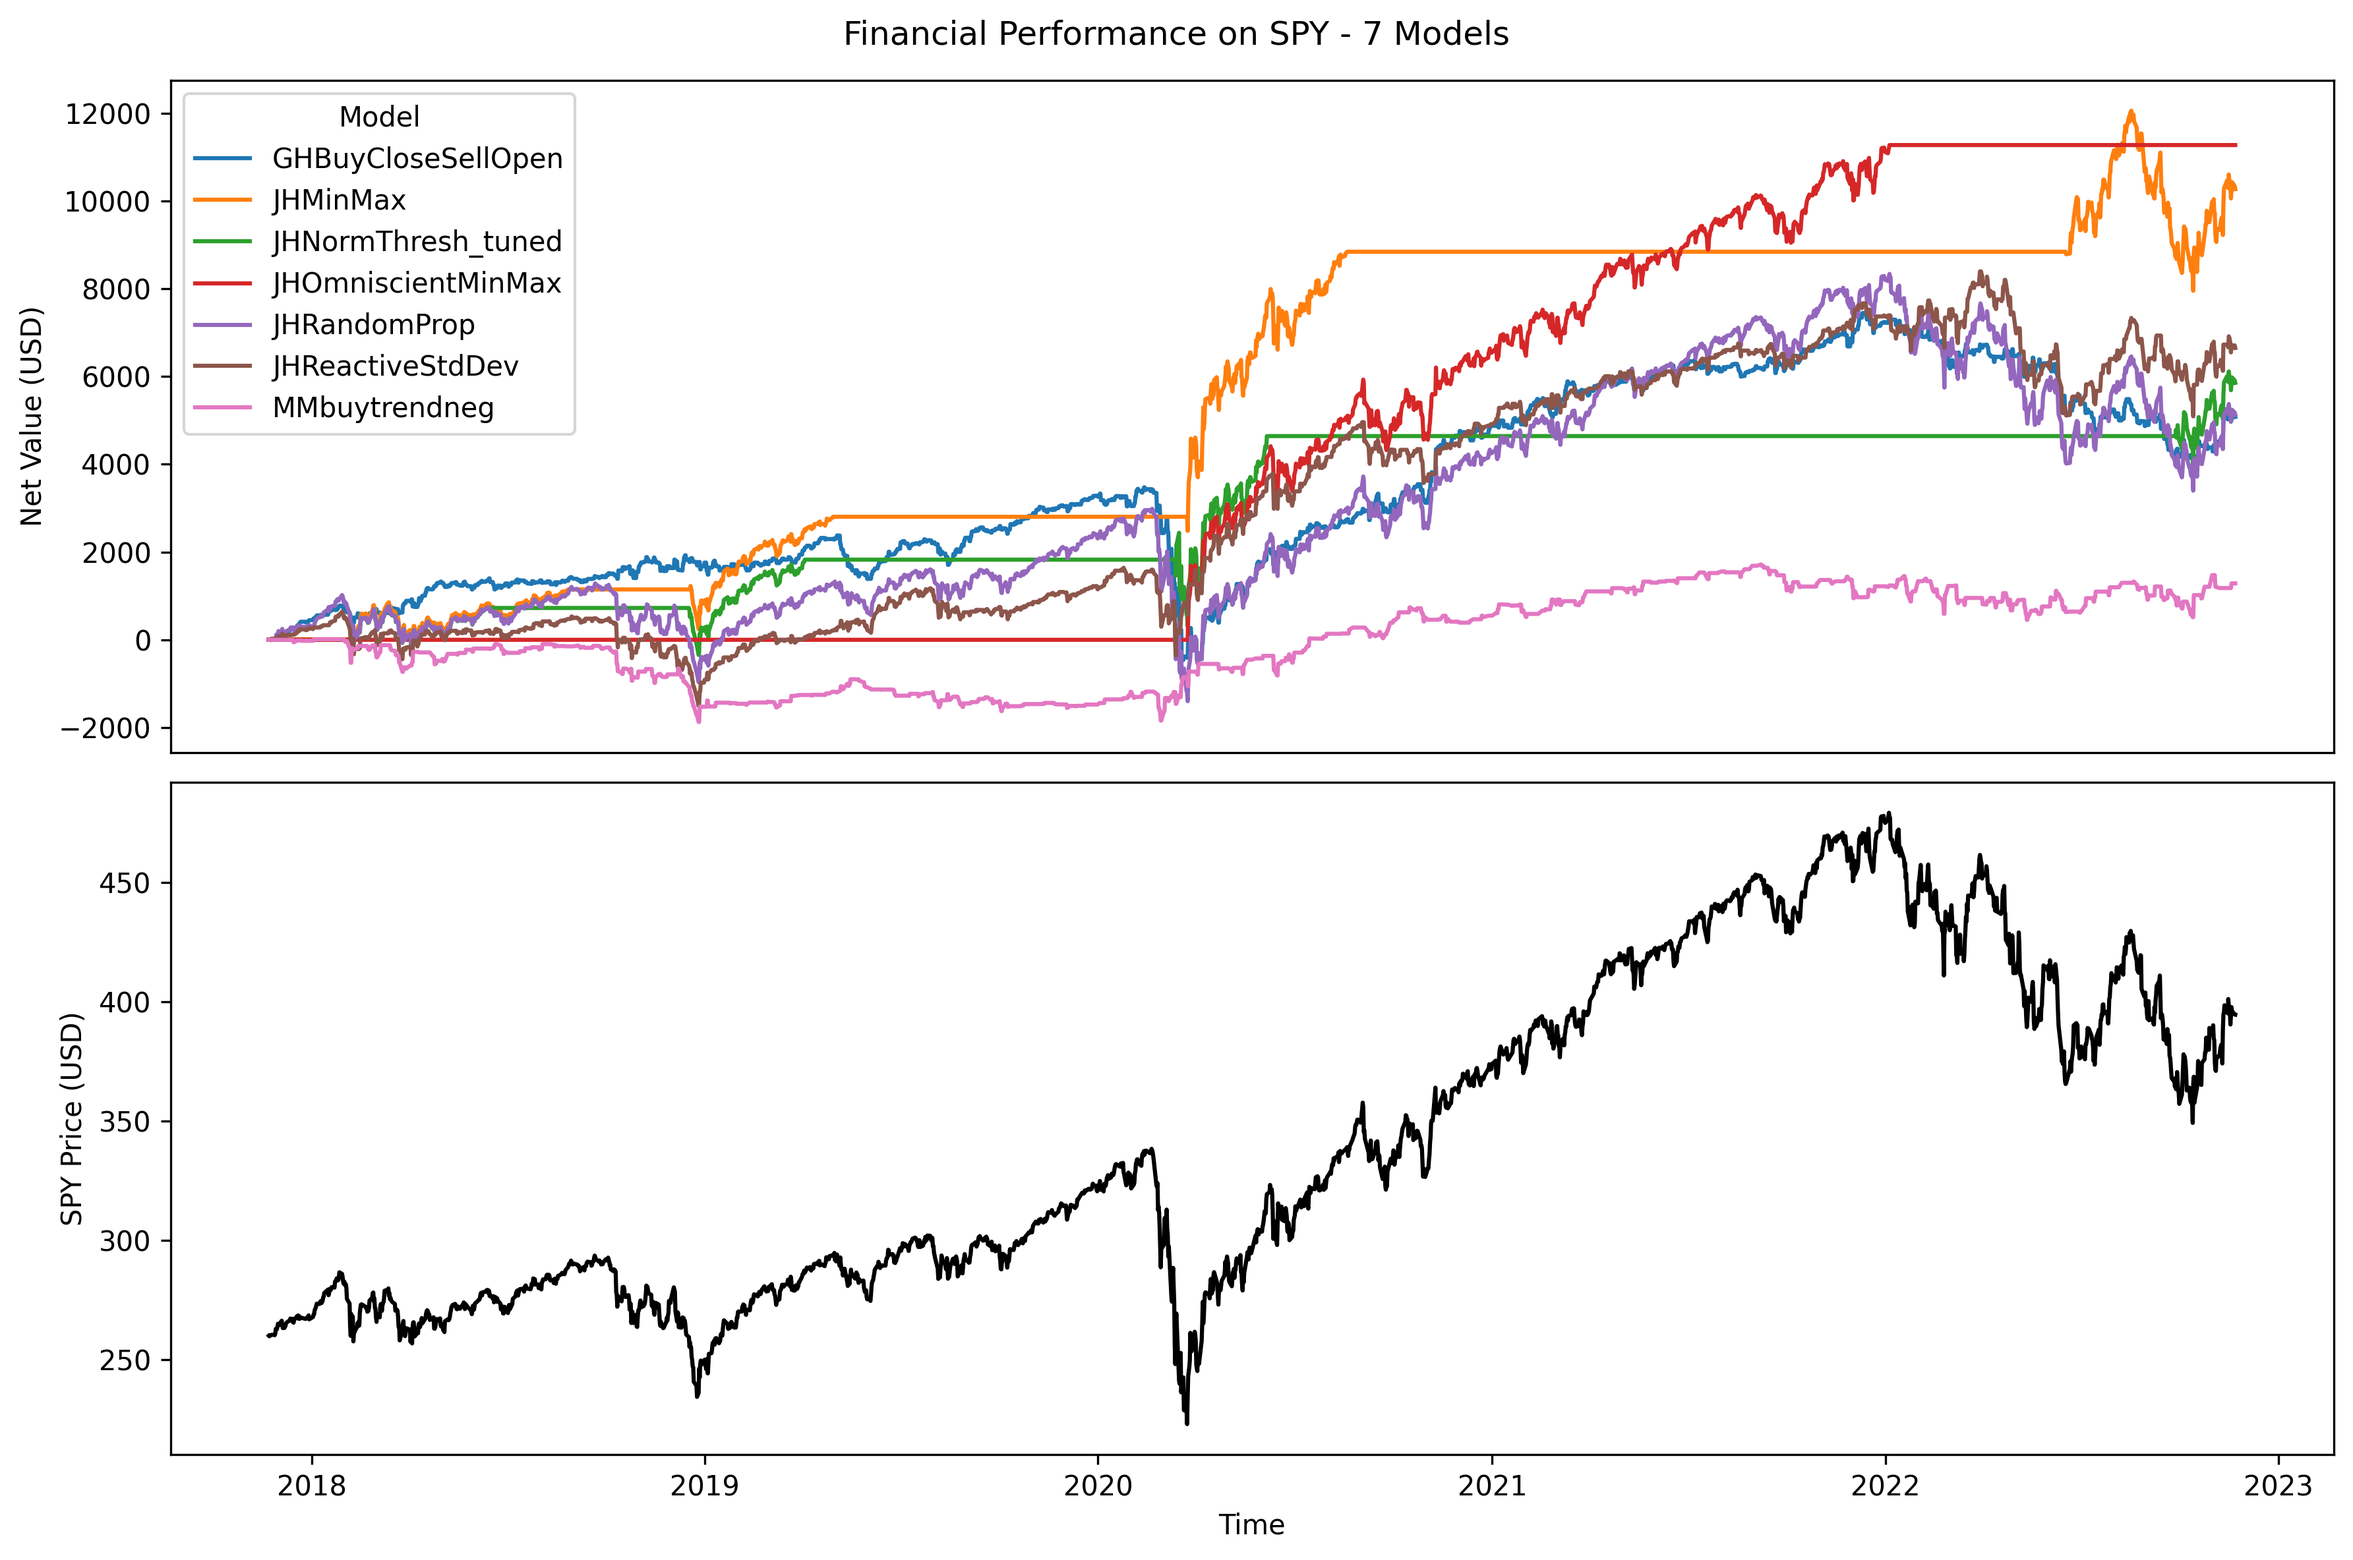
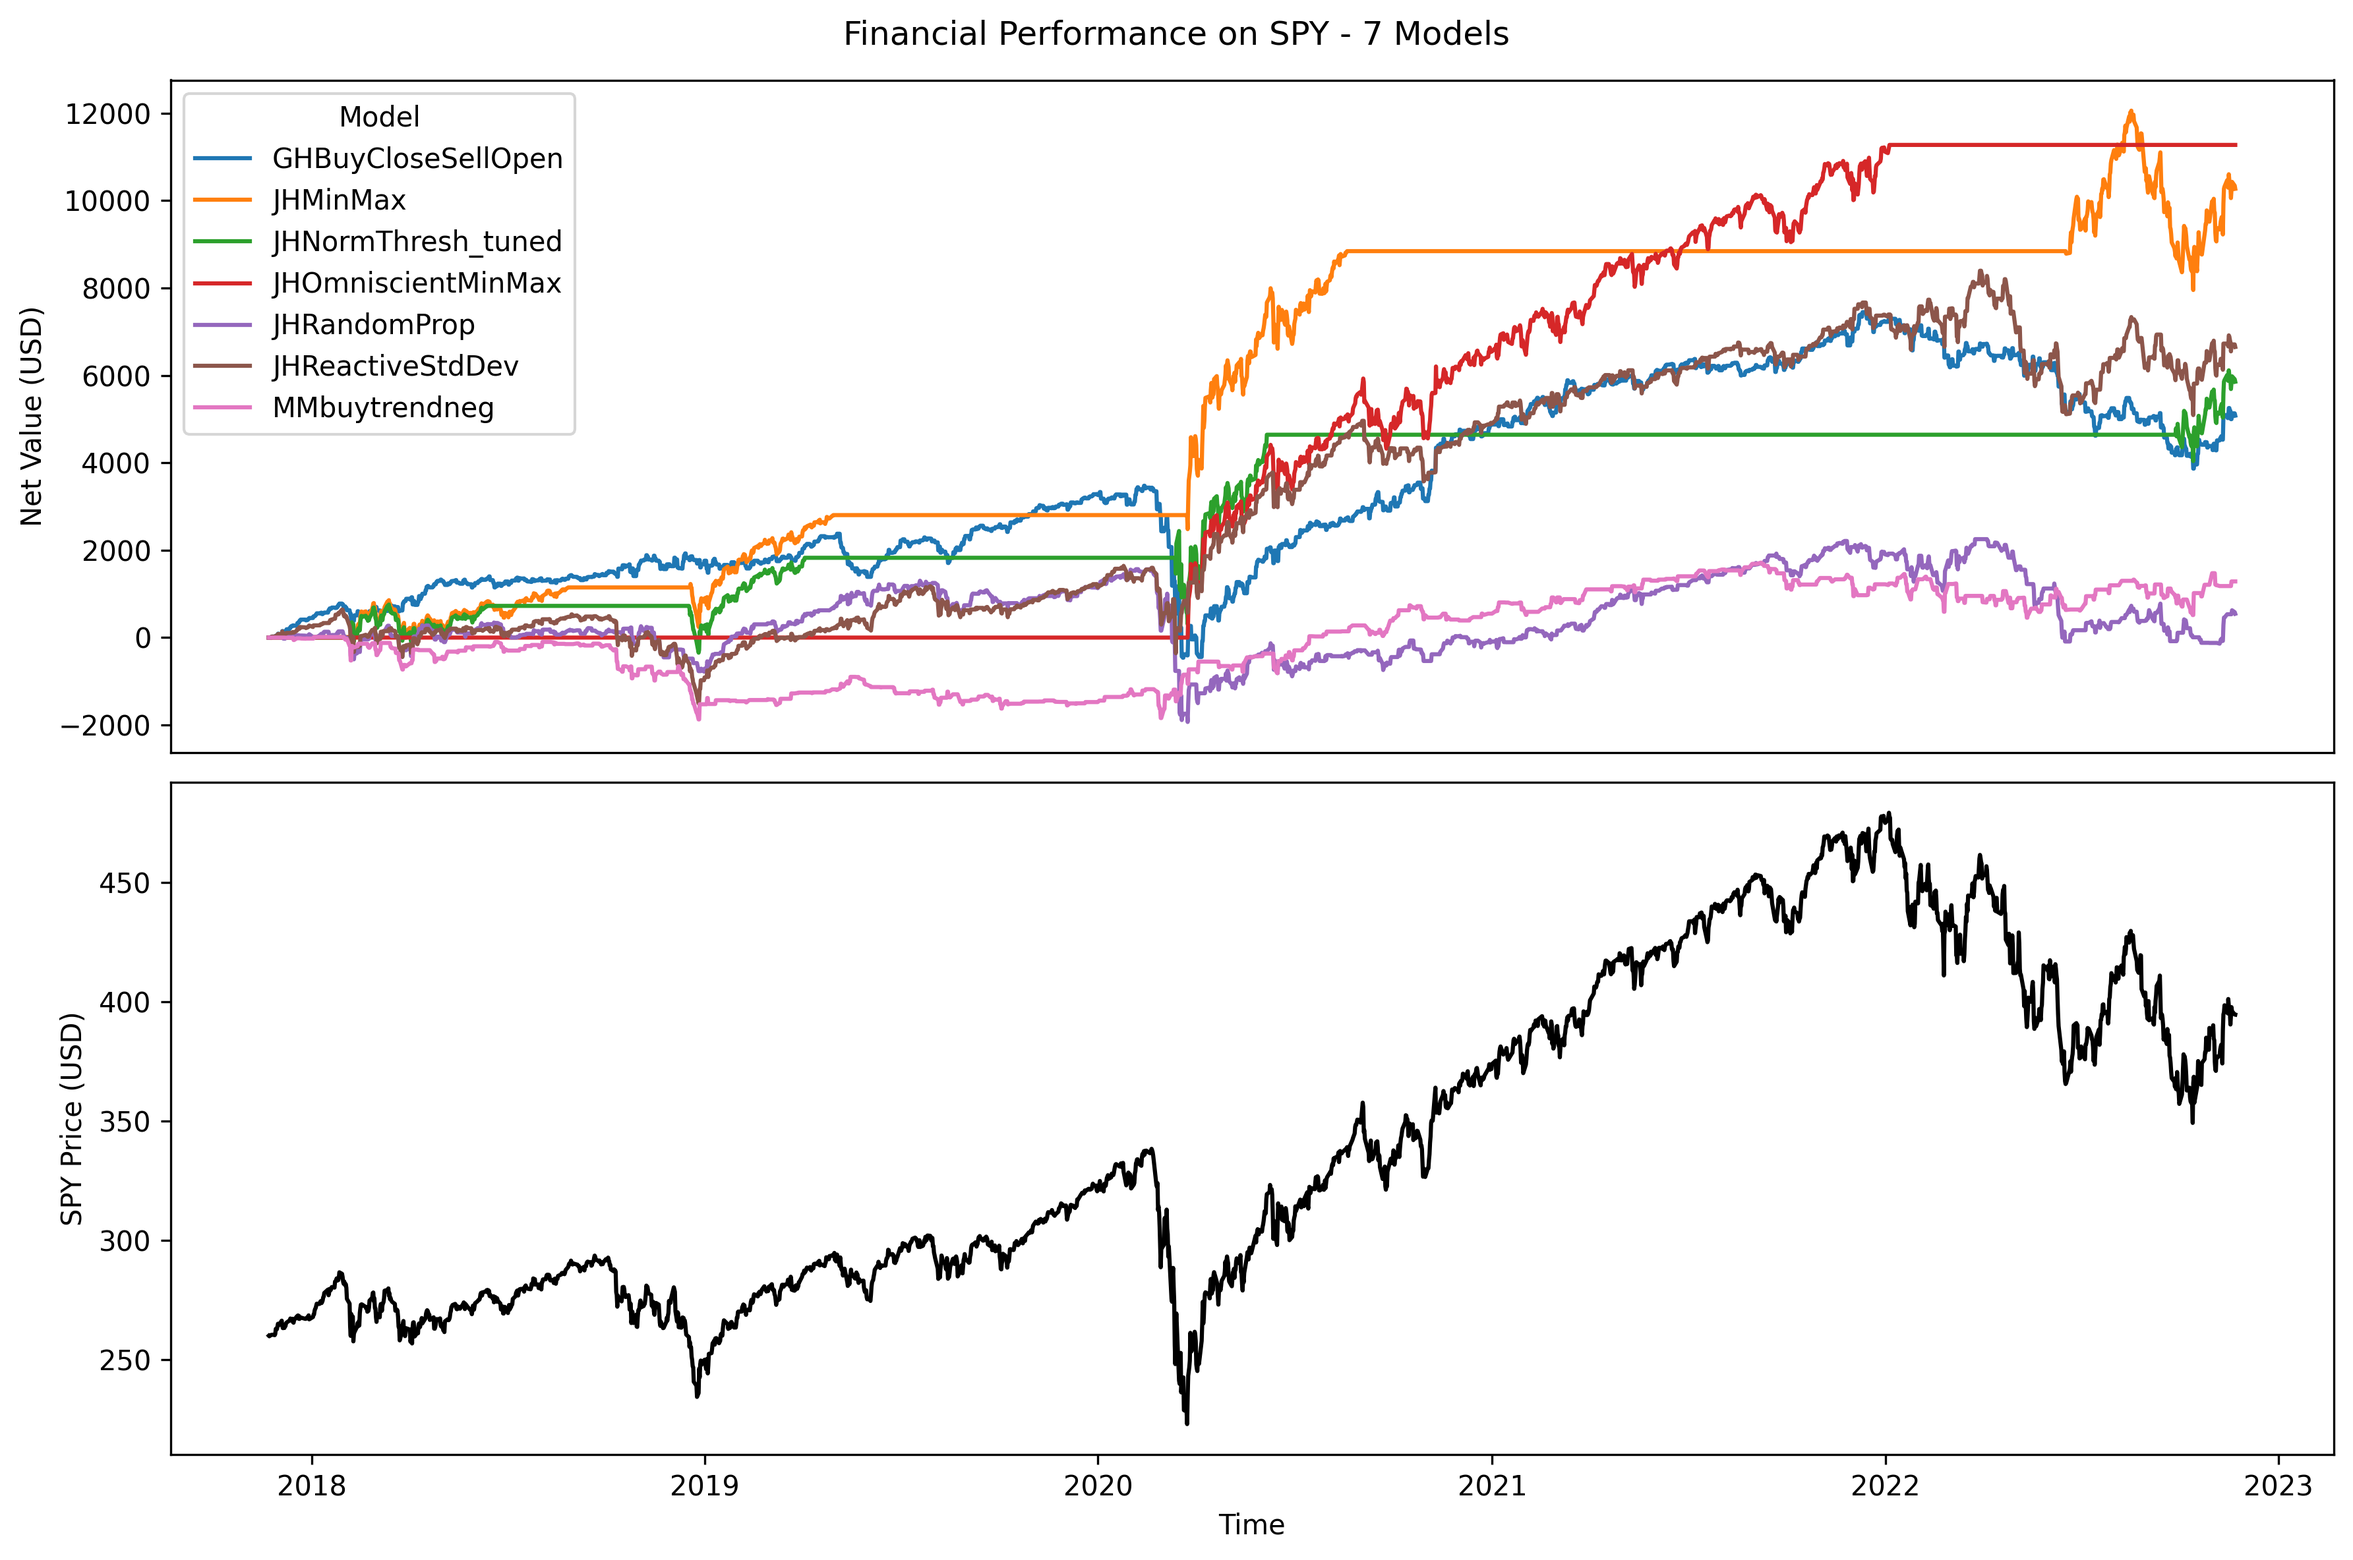
fixed one of the random models (never would buy); updated some markdown files

diff --git a/src/jh_plot_varmodels.py b/src/jh_plot_varmodels.py
@@ -160,11 +160,10 @@ def plot(
     if hasattr(model, 'conserve'):
         model_params.append(f'conserve={model.conserve}')
     
-    model_name = type(model).__name__
     net_perf = model.get_net_value()
     net_perf = f'{"-" if net_perf < 0 else ""}${abs(net_perf):.2f}'
     title = [
-        f'{model_name} price vs {alt} on {trend.name}',
+        f'{desc} price vs {alt} on {trend.name}',
         f'params: {"; ".join(model_params)}',
     ]
     if alt in incl_detail or alt == 'net value':
@@ -187,38 +186,38 @@ def plot(
     plt.tight_layout()
     if save_fig:
         plt.savefig(
-            f'figs/{trend.name}_std_dev-{desc}-price_vs_{alt}.png',
+            f'figs/{trend.name}_var_{desc}-price_vs_{alt}.png',
             dpi=300,
             bbox_inches='tight'
         )
     plt.show()
 
-def run_model(trend, desc, model, save_fig=False):
+def run_model(trend, model, desc, save_fig=False):
     for i in range(1, trend.two_dim.shape[0]+1):
         model.evaluate(trend.two_dim[:i,:].copy())
     print(f'financial performance: {model.get_net_value()}')
 
-    # plot(trend, desc, model, alt='sigma_mus', save_fig=save_fig)
-    plot(trend, desc, model, alt='std devs', save_fig=save_fig)
-    plot(trend, desc, model, alt='num SDs from prior', save_fig=save_fig)
-    plot(trend, desc, model, alt='z-scores', save_fig=save_fig)
-    # plot(trend, desc, model, alt='norm probs', save_fig=save_fig)
-    plot(trend, desc, model, alt='net value', save_fig=save_fig)
-    plot(trend, desc, model, alt='overs', save_fig=save_fig)
-    # plot(trend, desc, model, alt='overshares', save_fig=save_fig)
-    plot(trend, desc, model, save_fig=save_fig)
-    plot(trend, desc, model, alt='decision costs', save_fig=save_fig)
+    full_desc = f'{type(model).__name__}'
+    if desc is not None:
+        full_desc += f'_{desc}'
+    # plot(trend, full_desc, model, alt='sigma_mus', save_fig=save_fig)
+    plot(trend, full_desc, model, alt='std devs', save_fig=save_fig)
+    plot(trend, full_desc, model, alt='num SDs from prior', save_fig=save_fig)
+    plot(trend, full_desc, model, alt='z-scores', save_fig=save_fig)
+    # plot(trend, full_desc, model, alt='norm probs', save_fig=save_fig)
+    plot(trend, full_desc, model, alt='net value', save_fig=save_fig)
+    plot(trend, full_desc, model, alt='overs', save_fig=save_fig)
+    # plot(trend, full_desc, model, alt='overshares', save_fig=save_fig)
+    plot(trend, full_desc, model, save_fig=save_fig)
+    plot(trend, full_desc, model, alt='decision costs', save_fig=save_fig)
 
 def main():
     save_fig = False
     trend = ndaq
     trend = spy
     
-    model = JHStdDevDetail()
-    run_model(trend, 'sd_diffs', model, save_fig=save_fig)
-    
-    model = JHStdDevDetail(scale=68.6)
-    run_model(trend, 'sd_diffs_cheat', model, save_fig=save_fig)
+    model = JHReactiveStdDev()
+    run_model(trend, model, save_fig=save_fig)
     
     model = JHStdDevDetail(scale=68.6, conserve=True)
     run_model(trend, 'sd_diffs_conserve', model, save_fig=save_fig)

diff --git a/src/util/jh_refmodels.py b/src/util/jh_refmodels.py
@@ -33,7 +33,7 @@ class JHRandomProp(Model):
     def __init__(
             self,
             budget=default_budget,
-            prop=1,
+            prop=1.,
             seed=42,
     ):
         super().__init__(budget)
@@ -45,7 +45,7 @@ class JHRandomProp(Model):
         if decision > 0:
             return self.prop * np.ceil(self.balance//snapshot[-1,0])
         elif decision < 0:
-            return round(self.prop) * self.shares
+            return -round(self.prop * self.shares)
         else:
             return 0
 

diff --git a/src/util/jh_norm_prob.py b/src/util/jh_norm_prob.py
@@ -17,7 +17,7 @@ class JHNormProb(Model):
     def __init__(
             self,
             budget=default_budget,
-            scale=10,
+            scale=1,
             window=100,
             z_thresh=None,
             conserve=True,

diff --git a/README.md b/README.md
@@ -17,5 +17,69 @@ All models are given the same fixed budget at the start of each simulation and t
 
 ## Models
 
-* [simple models](simple.md)
-* [variance models](variance.md)
+<img src="figs/SPY_financial_comparison_7_models.png" width=900>
+
+<img src="figs/SPY_model_rankings.png" width=900>
+
+### Reference Models
+
+* JHRandomProp: Randomly choose to buy, sell, or hold. When buying and selling, this model will buy or sell as much as it can at that time. This is a reference model, to give a sense of how each strategy compares to blind guesswork.
+
+<img src="figs/SPY_price_vs_decisions_JHRandomProp.png" width=900>
+
+* JHOmniscientMinMax: This is not strictly a valid model (also not truly greedy); it is a refernece model that uses special knowledge to buy as many shares as possible at the global minimum and sell all of its shares at the global maximum. So far it outperforms all our other models, so perhaps it is useful as a provisional upper bound on financial performance.
+
+<img src="figs/SPY_price_vs_decisions_JHOmniscientMinMax.png" width=900>
+
+### A Priori Models
+
+* JHLongHaul - Buy as many shares a possible on the first iteration and never sell.
+
+<img src="figs/SPY_price_vs_decisions_JHLongHaul.png" width=900>
+
+* GHBuyOpenSellClose - Buy as many shares as possible each morning and sell all each evening.
+
+<img src="figs/SPY_price_vs_decisions_GHBuyOpenSellClose.png" width=900>
+
+* GHBuyCloseSellOpen - Sell all shares each morning and buy as many as possible each evening.
+
+<img src="figs/SPY_price_vs_decisions_GHBuyCloseSellOpen.png" width=900>
+
+### Reactive Models
+
+* JHBandWagon - This is a "Momentum" based model, based on the last two points:
+  * Buy one share if the current price is greater than the previous
+  * Sell one if less
+  * Do nothing if equal
+
+<img src="figs/SPY_price_vs_decisions_JHBandWagon.png" width=900>
+
+* JHReverseMomentum - This is an immediate "Reverse Momentum" model (i.e. the opposite of the JHBandWagon model):
+  * Buy if current price is less than previous
+  * Sell if current is greater than previous
+  * Do nothing if last two prices are equal
+
+<img src="figs/SPY_price_vs_decisions_JHReverseMomentum.png" width=900>
+
+* GHBuyTheDip - This is another "Reverse Momentum" model, using a ten point lag:
+  * If the current price is lower than the price nine points previously, buy a share
+  * If it's higher, sell a share
+  * If it's equal it will do nothing
+
+<img src="figs/SPY_price_vs_decisions_GHBuyTheDip.png" width=900>
+
+### "Tuned" Models
+
+Since we are only working with a single time series, all of our models are indirectly "trained" on "test" data (i.e. any manual adjustments to improve performance are tainted by prescience, which could lead to overfitting => loss of generality). For some of our models, we tried parameterizing them and scanning the parameter space for optimal parameters:
+
+* JHReverseMomentum_tuned: This model uses the same logic as JHReverseMomentum (i.e. buying or selling based on negative/positive slope for last two points, respectively) but instead of simply buying/selling exactly one share for each transaction, we tried using other constants. For example we might always try to buy/sell exactly 10 shares. By brute force we determined that, for this data set and initial budget of $10,000, the optimal number of shares was 18, yielding ~43% net value USD over ~3.5 years.
+
+<img src="figs/SPY_price_vs_decisions_JHReverseMomentum_tuned.png" width=900>
+
+### Statistical Models
+
+For a detailed description of initial investigation into summary statistics and sliding windows, see [variance models](variance.md).
+
+* JHMinMax: This is based on the JHOmniscientMinMax model, but uses a rolling min/max over the previous 728 points (about a year) of historic data.
+
+<img src="figs/SPY_price_vs_decisions_JHMinMax.png" width=900>
